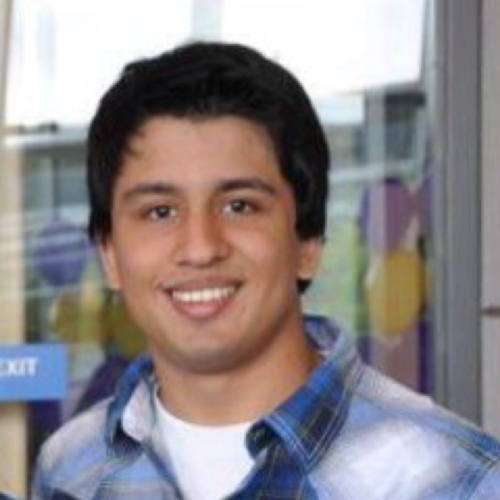
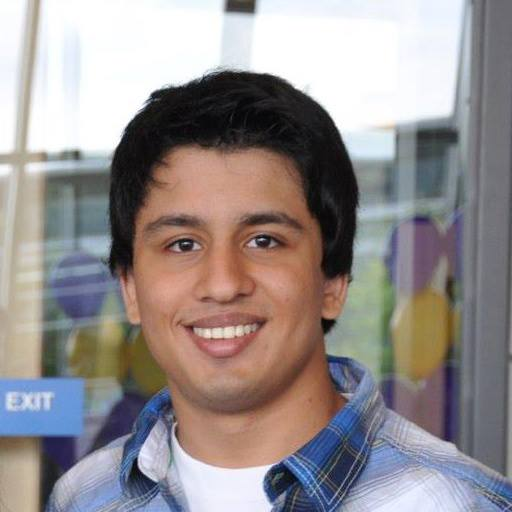
contact section added

diff --git a/index.html b/index.html
@@ -72,7 +72,8 @@
 						<ul class="icons">
 							<li><a href="http://www.github.com/eeshanl" target="_blank" class="icon fa-github"><span class="label">Facebook</span></a></li>
 							<li><a href="http://www.linkedin.com/in/eeshanl" target="_blank" class="icon fa-linkedin"><span class="label">Github</span></a></li>
-							<li><a href="https://www.dropbox.com/s/0cuygsv8qh8n2s4/Londhe_Eeshan_Resume.pdf?dl=0"  target="_blank" class="icon fa-file"><span class="label">Twitter</span></a></li>
+							<li><a href="mailto:eeshan@uw.edu" class="icon fa-envelope"><span class="label">Email</span></a></li>
+							<li><a href="https://www.dropbox.com/s/0cuygsv8qh8n2s4/Londhe_Eeshan_Resume.pdf?dl=0"  target="_blank" class="icon fa-file-pdf-o"><span class="label">Twitter</span></a></li>
 						</ul>
 
 				</div>
@@ -212,8 +213,7 @@
 								<h2>About Me</h2>
 							</header>
 
-							<a href="#" class="image featured"><img src="images/pic08.jpg" alt="" /></a>
-
+							<a class="img"><img src="images/eeshan.jpg" alt="" ></a>
 							<p>I am currently a Junior at UW pursuing a degree in Electrical Engineering with a focus on Embedded Systems and Communications. This summer, I will be interning at Honeywell Aerospace
 							as a Hardware Engineer working on the Com/Nav Data Link team.</p>
 
@@ -226,25 +226,8 @@
 
 							<header>
 								<h2>Contact</h2>
-								<h4> Contact me if you have any questions or want to know more about me! </h4>
+								<h4> Please contact me if you have any questions</h4><br/>
 							</header>
-
-							<form method="post" action="#">
-								<div class="row 50%">
-									<div class="6u"><input type="text" name="name" placeholder="Name" /></div>
-									<div class="6u"><input type="text" name="email" placeholder="Email" /></div>
-								</div>
-								<div class="row 50%">
-									<div class="12u">
-										<textarea name="message" placeholder="Message"></textarea>
-									</div>
-								</div>
-								<div class="row">
-									<div class="12u">
-										<input type="submit" value="Send Message" />
-									</div>
-								</div>
-							</form>
 
 						</div>
 
@@ -252,10 +235,11 @@
 
 
 						<ul class="icons">
-							<li><a href="http://www.facebook.com/eeshan" class="icon fa-facebook"><span class="label">Twitter</span></a></li>
-							<li><a href="http://www.github.com/eeshanl" class="icon fa-github"><span class="label">Facebook</span></a></li>
-							<li><a href="http://www.linkedin.com/in/eeshnl" class="icon fa-linkedin"><span class="label">Github</span></a></li>
-						</ul>
+							<li><a href="http://www.github.com/eeshanl" target="_blank" class="icon fa-github"><span class="label">Facebook</span></a></li>
+							<li><a href="http://www.linkedin.com/in/eeshanl" target="_blank" class="icon fa-linkedin"><span class="label">Github</span></a></li>
+							<li><a href="mailto:eeshan@uw.edu" class="icon fa-envelope"><span class="label">Email</span></a></li>
+							<li><a href="https://www.dropbox.com/s/0cuygsv8qh8n2s4/Londhe_Eeshan_Resume.pdf?dl=0"  target="_blank" class="icon fa-file-pdf-o"><span class="label">Twitter</span></a></li>
+							</ul>
 					</section>
 
 			</div>

diff --git a/css/style.css b/css/style.css
@@ -812,5 +812,5 @@
 
 			#main > section.four
 			{
-				background-color: #e8edec;
+				background-color: #f5fafa;
 			}
